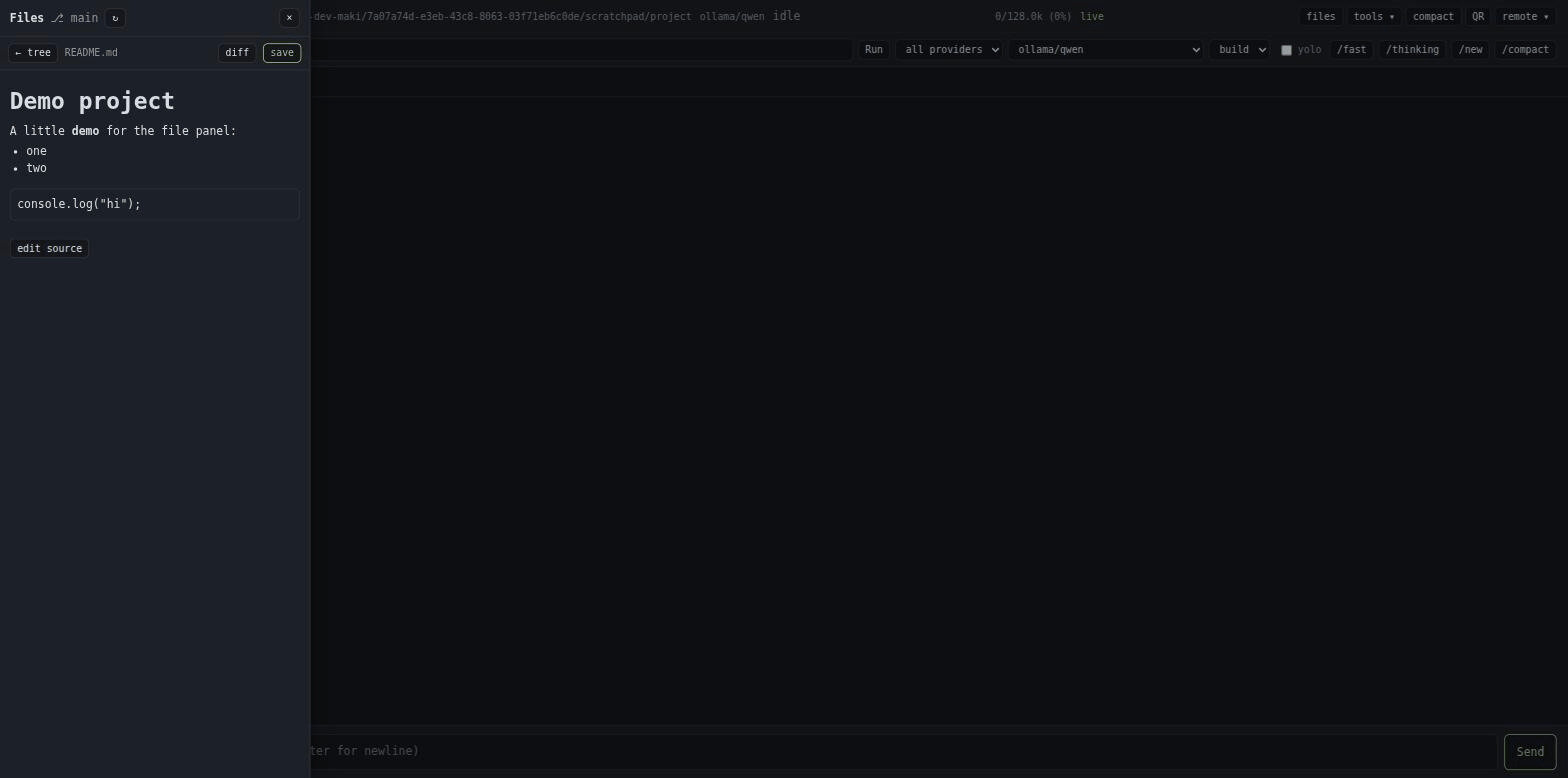
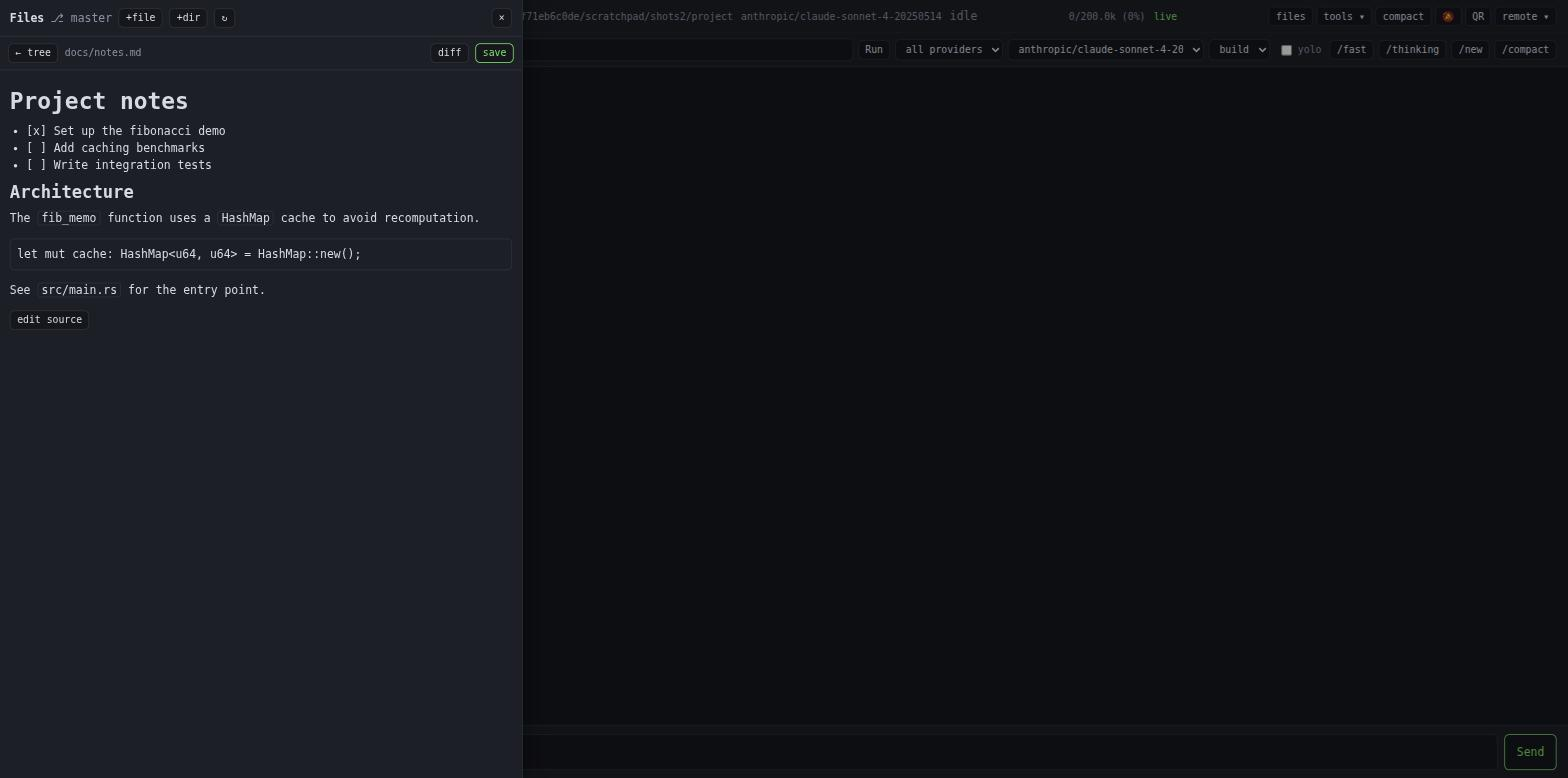
docs(anchor): refresh screenshots and document the new batch of features
Retake the file-panel screenshots to show the create/rename/delete
toolbar and fuzzy-find, and add new ones for syntax highlighting and
the anchor dashboard's bulk revoke/delete and webhooks admin UI. Write
up file explorer CRUD, syntax highlighting, clipboard paste, the usage
sparkline, PWA installability, and webhooks in the anchor docs, none
of which were documented yet.

Claude-Session: https://claude.ai/code/session_01EY6pC4dwY3Yi9Pm6jdKahu

diff --git a/site/docs/content/anchor/_index.md b/site/docs/content/anchor/_index.md
@@ -152,11 +152,13 @@ to becopied from scrollback.
 | Page | Contents |
 |---|---|
 | `/` (home) | Live shares: every unexpired link, its instance, tunnel state, and an open button. Below it, each instance's sessions with pushed cost and an **open** action that mints a two-hour control link scoped to that session |
-| `/instances` | The install wizard (create an instance, copy the one-liner) and the fleet roster |
-| `/links` | Mint a share link and revoke live ones |
-| `/admin` | Users, grants, mint policy, and the OIDC/SSO setup form (admins only) |
+| `/instances` | The install wizard (create an instance, copy the one-liner) and the fleet roster, with a **delete all sessions** button per host |
+| `/links` | Mint a share link, revoke live ones, or **revoke all** at once |
+| `/admin` | Users, grants, mint policy, webhooks, and the OIDC/SSO setup form (admins only) |
 
-Non-admins see the pages filtered to instances they hold a grant for.
+Non-admins see the pages filtered to instances they hold a grant for. The bulk
+buttons arm on the first click and only act on a second click within a few
+seconds, so a stray tap can't wipe a fleet.
 
 ## The remote session page
 
@@ -171,9 +173,20 @@ instead of rendering an empty page.
 
 The composer takes uploads: a `+` button attaches images to the next prompt
 for vision models, or saves any file into the session's working directory and
-tells the agent where it landed. Each chip toggles between the two modes.
-`/rc` and the link pages render the share URL as a QR, scannable straight off
-the terminal.
+tells the agent where it landed. Each chip toggles between the two modes, and
+pasting an image straight into the composer (`Ctrl+V`) attaches it the same
+way, with no need to save it to disk first. `/rc` and the link pages render
+the share URL as a QR, scannable straight off the terminal.
+
+Once a session has run for a bit, a small sparkline appears above the
+composer charting cost and context-window usage over the session so far,
+useful for spotting a run that is about to blow its budget without opening a
+transcript.
+
+The page is an installable PWA: "Add to Home Screen" (or the browser's own
+install prompt) gives it an app icon and a standalone window, no browser
+chrome. Installing does not add offline support; the page still needs the
+tunnel. It just drops the address bar.
 
 ## File explorer
 
@@ -182,21 +195,39 @@ gitignore-aware tree of the session's working directory, lazy-loaded one
 level at a time so a large repo never pays to list itself up front. If the
 directory is a git repo, each entry carries its `git status --porcelain`
 code (`M`, `??`, `D`, ...) and the panel's own header shows the current
-branch.
+branch. A search box fuzzy-finds any file in the tree by path, for jumping
+straight to a file in a large repo without expanding folders by hand.
+
+`+file` and `+dir` create new entries in place; every row carries a rename
+(✎) and delete (🗑) action. Delete arms on the first click and only removes
+the file on a second click within a few seconds, the same guard the
+dashboard's bulk actions use. None of this uses native browser dialogs, so it
+works the same on mobile as on desktop.
 
 Open a file to read it. Markdown renders by default, with an "edit source"
-toggle to drop to the raw text; anything else opens straight into a plain
-text editor. A `diff` button swaps in the file's unified git diff — tracked
-changes diff against the index, untracked files diff against `/dev/null` (via
-`git diff --no-index`) so a brand new file still shows what it adds. `save`
-writes the edit straight to disk over the same tunnel as everything else, no
-separate upload step.
+toggle to drop to the raw text. Anything else opens with full syntax
+highlighting (the same highlighter the terminal UI uses), also with a toggle
+to the raw text for editing. A `diff` button swaps in the file's unified git
+diff — tracked changes diff against the index, untracked files diff against
+`/dev/null` (via `git diff --no-index`) so a brand new file still shows what
+it adds. `save` writes the edit straight to disk over the same tunnel as
+everything else, no separate upload step.
 
 Reads are capped at 1.5MB and a directory listing at 4000 entries; anything
-larger reports its size instead of trying to render. Every path is resolved
-and canonicalized against the session's working directory before it touches
-disk, so a link or a crafted path can't read or write outside the project
-root.
+larger reports its size instead of trying to render. Every path, whether it
+is a read, write, create, rename, or delete, is resolved and canonicalized
+against the session's working directory before it touches disk, so a link or
+a crafted path cannot reach outside the project root.
+
+## Webhooks
+
+The admin page can fire a webhook the moment a session's status flips from
+`working` to `idle`, the same "the run stopped" signal the web UI's own
+in-page notifications use, delivered server-side so it fires even with no
+browser tab open anywhere. Configure a hook globally or scoped to one
+instance, as `generic` (a JSON POST describing the event), `slack`,
+`discord`, or `ntfy`. Delivery is fire-and-forget on its own thread, so a
+slow or dead endpoint never blocks the tunnel that carries everything else.
 
 ## Login and roles
 

diff --git a/README.md b/README.md
@@ -85,8 +85,10 @@ links.
 | | |
 |---|---|
 | ![Anchor dashboard](./screenshots/anchor-dashboard.jpg) Fleet dashboard: live shares and sessions, each with a search box over titles and full transcripts. | ![Remote terminal](./screenshots/remote-terminal.jpg) The remote terminal: full transcript, model/provider pickers, and the command toolbar. |
-| ![File explorer panel](./screenshots/remote-terminal-files.jpg) The file panel: a gitignore-aware tree with per-file status badges. | ![Markdown file rendered in the file panel](./screenshots/remote-terminal-files-markdown.jpg) Markdown renders in place, with a toggle to edit the raw source. |
-| ![Compact mobile view](./screenshots/remote-terminal-compact.jpg) Compact mode with the toolbar tucked away, for a phone screen. | ![QR code popup](./screenshots/remote-terminal-qr.jpg) One tap to flash the page's own link as a QR code. |
+| ![File explorer panel](./screenshots/remote-terminal-files.jpg) The file panel: create, rename, delete, and fuzzy-find files from a gitignore-aware tree. | ![Syntax-highlighted file in the file panel](./screenshots/remote-terminal-files-highlight.jpg) Non-markdown files render with full syntax highlighting. |
+| ![Markdown file rendered in the file panel](./screenshots/remote-terminal-files-markdown.jpg) Markdown renders in place, with a toggle to edit the raw source. | ![Compact mobile view](./screenshots/remote-terminal-compact.jpg) Compact mode with the toolbar tucked away, for a phone screen. |
+| ![Anchor live shares with bulk revoke](./screenshots/anchor-links.jpg) Live shares, each proxied through the tunnel, with a one-click revoke-all. | ![Anchor instances with bulk session delete](./screenshots/anchor-instances.jpg) Every connected instance, with a bulk "delete all sessions" per host. |
+| ![Anchor webhooks admin](./screenshots/anchor-webhooks.jpg) Webhooks fire to Slack, Discord, ntfy, or a generic JSON endpoint whenever a session finishes. | ![QR code popup](./screenshots/remote-terminal-qr.jpg) One tap to flash the page's own link as a QR code. |
 
 Everything below is upstream's README.
 
